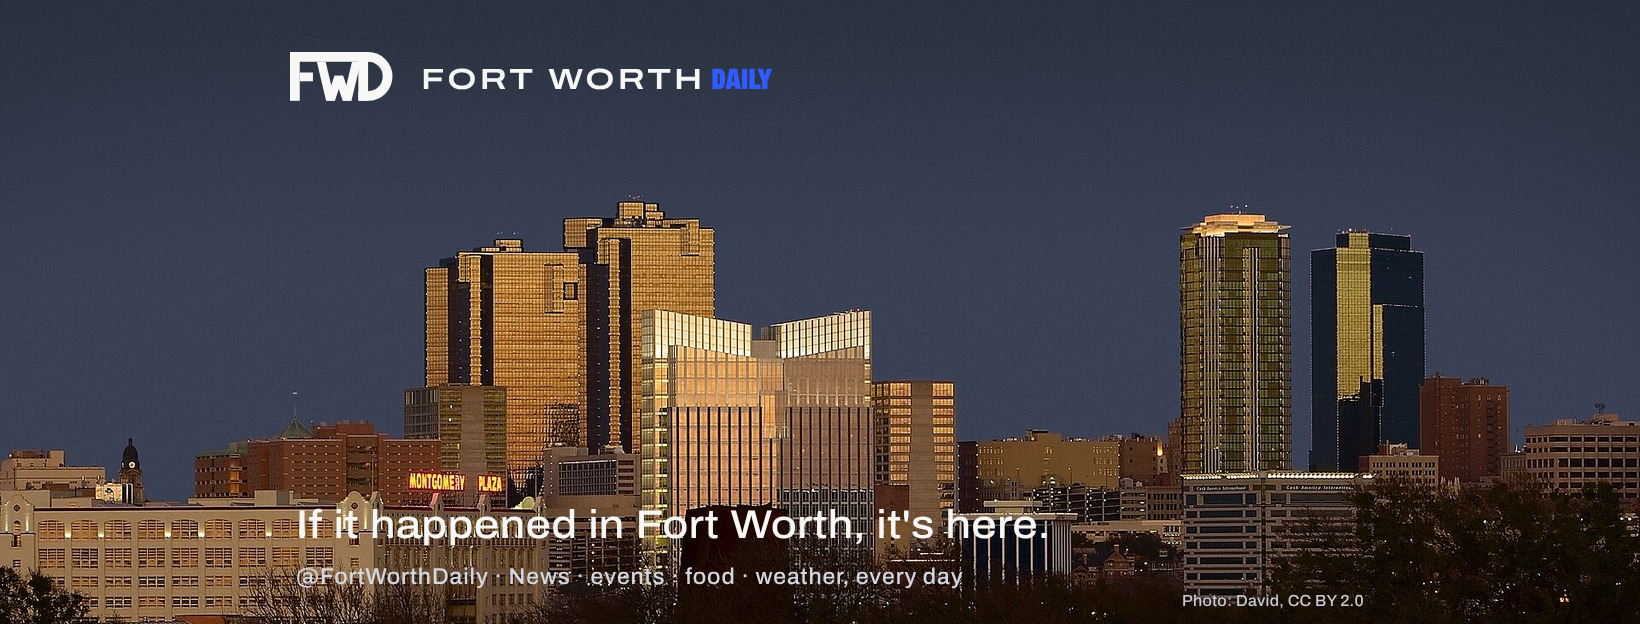
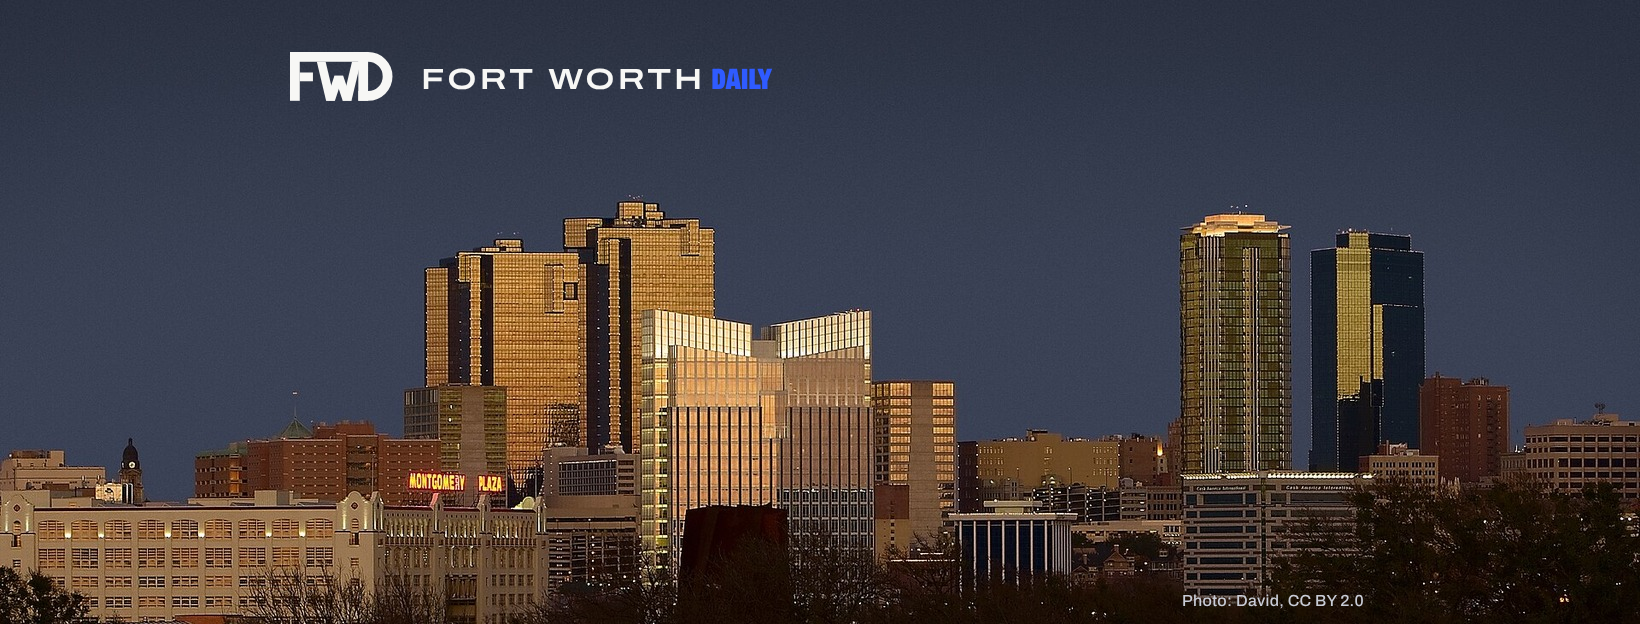
Dusk cover: lockup in the sky only, credit bottom right
Claude-Session: https://claude.ai/code/session_01BEGq8qHbtdYQT2sUZhktmH

Changed region(s): [[0.1555, 0.8221, 0.653, 0.883], [0.1866, 0.9135, 0.5909, 0.9439]]

diff --git a/scripts/make_facebook_banners.py b/scripts/make_facebook_banners.py
@@ -157,8 +157,7 @@ def banner_dusk() -> str:
     s = min(1.0, 520 / lw)
     x, y = SAFE_X0 + 24, 52
     body += g(b, x, y, s)
-    body += text(x + 6, H - 86, "If it happened in Fort Worth, it's here.", 500, 40, d["paper"], 0.01, wdth=112)
-    body += text(x + 6, H - 40, f"{HANDLE}   ·   News · events · food · weather, every day", 500, 23, "#D5D8E0", 0.04, wdth=100)
+    # nothing else on the photo: the bio carries the promise line, the profile picture carries the mark again
     body += text(SAFE_X1 - 10, H - 18, "Photo: David, CC BY 2.0", 500, 16, "#C9CCD6", 0.02, "end", wdth=100)
     return svg(W, H, body, bg=d["ink"])
 
